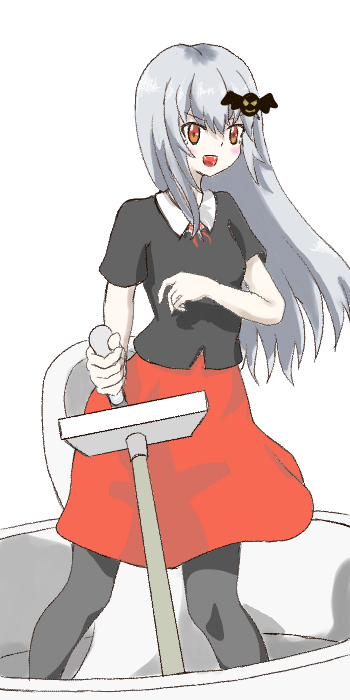
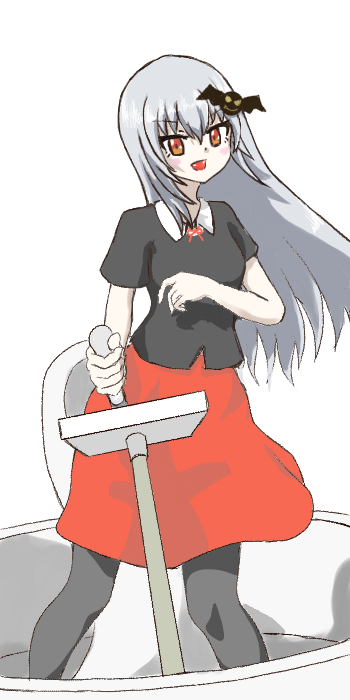
ボムのシステムとレーザによるスコアの加算
一通りできました
疲れた

diff --git a/TypeManager.cpp b/TypeManager.cpp
@@ -52,11 +52,13 @@ bool gameover = false;
 
 double itagaruLimit = 1.5;
 
-int32 LostScore = 10000;
+int32 LostScore = 250000;
 
 double TimeOfBomb = 6;
 
 bool ColTim = false;
+
+int32 BombGage = 500000;
 
 BaseType* TypeManager::m_pType = NULL;
 
@@ -85,6 +87,8 @@ double TypeManager::TimMotionTime = 0.6;
 ChackDuaChange TypeManager::ChackHitMan = { DuaInit,DuaInit };
 
 double TypeManager::itagaruTimer = 0;
+
+int32 TypeManager::ShowBombGage = 0;
 
 TypeManager::TypeManager(int32 ScoreInit)
 {
@@ -198,7 +202,7 @@ void TypeManager::Update()
 
 	if (KeyX.down() && not player_m->GetBreak())
 	{
-		if (player_m->GetBombNum() > 0 && not Explo)
+		if (player_m->GetBombNum() > 0 && not Explo && player_m->GetHaveBomb())
 		{
 			Explo = true;
 		}
@@ -215,6 +219,7 @@ void TypeManager::Update()
 
 	insP->Pacmove();
 	insP->reflect(ew);
+
 	if (Explo) {
 		if (insP->intersectsTim(enemy_m))
 			ColTim = true;
@@ -231,6 +236,7 @@ void TypeManager::Update()
 			Timerinterval = 0;
 			ExploTimer = 0;
 			Explo = false;
+			player_m->SetHaveBomb(false);
 			if (Abs(insP->GetPacVelocity().y) < 50)
 			{
 				if (insP->GetPacVelocity().y > 0)
@@ -253,6 +259,8 @@ void TypeManager::Update()
 	bat->BallMoveMax(500);
 	bat->RemoveOutBall(table);
 
+	ShowBombGage=player_m->AccumulateBomb(m_pType->Getm_score());
+
 	m_pType->Update(insP, player_m, enemy_m);
 
 
@@ -274,6 +282,7 @@ void TypeManager::Update()
 			//敵のゴール
 			player_m->LostLifes();
 			player_m->Repaired();
+			player_m->SetHaveBomb(true);
 			Vec2 a{ WindowWide / 2,WindowHight / 2 }, b{ 0,100 };
 			insP->SetXY(a);
 			insP->SetVelocity(b);
@@ -394,7 +403,7 @@ void TypeManager::Draw(Array<Texture> characters)
 	}
 
 	//エイリアンちゃん描写
-	characters[int32(CharactersState::TsAlien)].draw(WindowWide - tableLeft, tableUpper-35);
+	characters[int32(CharactersState::TsAlien)].draw(WindowWide - tableLeft, tableUpper-50);//35
 
 	//アンナちゃん描写
 	if (ChackHitMan.nowDuability < ChackHitMan.preDuability||itagaruTimer>0)
@@ -420,6 +429,11 @@ void TypeManager::Draw(Array<Texture> characters)
 	}
 	else
 		characters[int32(CharactersState::TsAnnna)].draw(0, 75);
+
+	characters[int32(CharactersState::BombGage)].scaled(1.7).drawAt(WindowWide - tableLeft*3/8-40, WindowHight - tableUpper - 100);
+
+	if (not player_m->GetHaveBomb())
+		Circle{ WindowWide - tableLeft * 3 / 8 - 40, WindowHight - tableUpper - 100 ,27.5 }.drawPie(0_deg, Math::Pi * 2 * (BombGage-ShowBombGage) / BombGage, ColorF(Palette::Black, 0.4));
 	
 	ChackHitMan.preDuability = ChackHitMan.nowDuability;
 	ChackHitMan.nowDuability = player_m->GetDua();

diff --git a/Main.cpp b/Main.cpp
@@ -38,7 +38,7 @@ void SetTextureCharacters()
 	//横の絵
 	const Texture textureTsAnnna{ U"Images/TableSideAnnna.png" };
 	const Texture textureAttackedTsAnnna{ U"Images/AttackedTableSideAnnna.png" };
-	const Texture textureTsAlien{ U"Images/TableSideAlien.png" };
+	const Texture textureTsAlien{ U"Images/TableSideAlien2.png" };
 	//マレットドット絵
 	const Texture textureAnnnaOnMallet{ U"Images/AnnnaOnMallet.png" };
 	const Texture textureAlienOnMallet{ U"Images/AlienOnMallet.png" };
@@ -47,6 +47,8 @@ void SetTextureCharacters()
 	const Texture textureTim2{ U"Images/Tim2.png" };
 	const Texture textureTim3{ U"Images/Tim3.png" };
 	const Texture textureTim4{ U"Images/Tim4.png" };
+	//ボムゲージ
+	const Texture textureBombGage{ U"Images/BombMark.png" };
 
 	Characters << textureAnnnaOnMallet;
 	Characters << textureAlienOnMallet;
@@ -59,6 +61,8 @@ void SetTextureCharacters()
 	Characters << textureTim2;
 	Characters << textureTim3;
 	Characters << textureTim4;
+
+	Characters << textureBombGage;
 }
 
 class Title : public App::Scene
@@ -115,6 +119,7 @@ private:
 	Font font{ 60 };
 	Font Scorefont1{ 30 };
 	Font Scorefont2{ 22 };
+	Font Sp{ 37 };
 	bool oneTime = true;
 
 	const Texture textureGameBack{ U"Images/game_Back.png" };
@@ -208,6 +213,7 @@ public:
 			}
 			Scorefont1(U"スコア").draw(WindowWide - tableLeft + 10, WindowHight - 40, ColorF(Palette::Yellow));
 			Scorefont2(t_manager->GetNowScore()).draw(WindowWide - tableLeft + 110, WindowHight - 32, ColorF(Palette::White));
+			Sp(U"必殺技").draw(WindowWide - tableLeft + 10, WindowHight - tableUpper - 100-27);
 		}
 	}
 };

diff --git a/EneBullet_1.cpp b/EneBullet_1.cpp
@@ -154,12 +154,12 @@ void EneBullet_1::RandomShotball(Ball_1* ball, double MinSpeed, double MaxSpeed,
 	}
 }
 
-void EneBullet_1::ShotRay(Ball_1* ball ,int32 hutosa, Color c,Pac *p)
+void EneBullet_1::ShotRay(Ball_1* ball ,int32 hutosa, Color c,Pac *p,int32 *score)
 {
 	for (auto& bullet : enebullets)
 	{
 		ball->ShotRay(bullet.pos, bullet.dir, hutosa, c);
-		ball->IntersectsPac(p, bullet.pos);
+		ball->IntersectsPac(p, bullet.pos, score);
 	}
 }
 
@@ -188,14 +188,14 @@ void EneBullet_1::HunsuiShot(Ball_1* ball, double maxs, double mins, double ct, 
 	ball->BallFall();
 }
 
-void EneBullet_1::NeutronStarRay(Ball_1* ball, int32 hutosa, Color c, Pac* p)
+void EneBullet_1::NeutronStarRay(Ball_1* ball, int32 hutosa, Color c, Pac* p, int32* score)
 {
 	ball->RayAllExtingish();
 	for (auto& bullet : enebullets)
 	{
 		ball->ShotRay(bullet.pos, bullet.dir, hutosa, c);
 		ball->ShotRay(bullet.pos, bullet.dir+3.14, hutosa, c);
-		Array<bool> i = ball->IntersectsPac(p, bullet.pos);
+		Array<bool> i = ball->IntersectsPac(p, bullet.pos, score);
 		if (i[0]||i[1])
 		{
 			p->RayPacmove(bullet.pos, bullet.dir);

diff --git a/Type5.cpp b/Type5.cpp
@@ -219,7 +219,10 @@ void Type5::Update(Pac* pac, Player* player, Enemy* enemy)
 		}
 		else
 		{
-			NeutronStar->NeutronStarRay(ball7, hutosa, Palette::Skyblue, pac);
+			int32 S = Getm_score();//一時的にスコアをもらう
+			NeutronStar->NeutronStarRay(ball7, hutosa, Palette::Skyblue, pac,&S);
+			Setm_score(S);
+
 			uzu->uzukaiten(ball6, 3.14 / 17, 1.7, 110, Vec2(tableLeft + tableWide / 2, tableUpper + tableHight * 2 / 5), 12, &BaseDir);
 			if (enemy->GetDua() < DuaInit * 4 / 5) {
 				TypeChange = true; type++;
@@ -242,7 +245,10 @@ void Type5::Update(Pac* pac, Player* player, Enemy* enemy)
 		}
 		else
 		{
-			NeutronStar->NeutronStarRay(ball7, hutosa, Palette::Skyblue, pac);
+			int32 S = Getm_score();//一時的にスコアをもらう
+			NeutronStar->NeutronStarRay(ball7, hutosa, Palette::Skyblue, pac, &S);
+			Setm_score(S);
+
 			uzu->uzukaiten(ball6, 3.14 / 10, 0.9, 140, Vec2(tableLeft + tableWide / 2, tableUpper + tableHight * 2 / 5), 12, &BaseDir);
 			if (enemy->GetDua() < DuaInit * 3 / 5) {
 				TypeChange = true; type++;

diff --git a/EneBullet_1.h b/EneBullet_1.h
@@ -41,13 +41,13 @@ public:
 
 	void RandomShotball(Ball_1* ball, double MinSpeed, double MaxSpeed, Array<double> dir, double baratsuki, double MinD, double MaxD);//type4のrainshotで主に使う
 
-	void ShotRay(Ball_1* ball, int32 hutosa, Color c, Pac* pac);
+	void ShotRay(Ball_1* ball, int32 hutosa, Color c, Pac* pac, int32* score);
 
 	void ShotRay(Ball_1* ball, int32 hutosa, Color c, double len);
 
 	void HunsuiShot(Ball_1* ball, double MaxSpeed, double MinSpeed,double ct, double zurasu, double grab);//噴水
 
-	void NeutronStarRay(Ball_1* ball, int32 hutosa, Color c, Pac* pac);//中性子星のガンマ線バースト、パックが光線に当たった時の処理も書いてる
+	void NeutronStarRay(Ball_1* ball, int32 hutosa, Color c, Pac* pac,int32 *score);//中性子星のガンマ線バースト、パックが光線に当たった時の処理も書いてる
 
     Array<Vec2> SetBulSurr(Vec2 center,double BaseDir, int32 k);//centerを中心にステージをk等分し、centerをとりかこむようにbulletを設置
 

diff --git a/Player.cpp b/Player.cpp
@@ -6,10 +6,34 @@ Player::Player(double x, double y, double em, double m_r, double h_s, double r_s
 	:Mallet(x, y, em, m_r, h_s, r_s, m_s, tableleft, tableupper, windowwide, windowhight, g_r,life), delta(0), duability(DuaInit)
 {
 	Revivaled = false;
+	HaveBomb = true;
+	PiggyBomb = 0;
+	CountBombExplo = 0;
 }
 Player::~Player()
 {
 
+}
+
+int32 Player::AccumulateBomb(int32 nowscore)
+{
+	if (not HaveBomb)//もしボムがなければ
+	{
+		if (nowscore - PiggyBomb > BombGage)
+		{
+			HaveBomb = true;
+		}
+		else if (nowscore < PiggyBomb)
+		{
+			PiggyBomb = nowscore;
+			return 0;
+		}	
+	}
+	else
+	{
+		PiggyBomb = nowscore;
+	}
+	return nowscore - PiggyBomb;
 }
 
 void Player::keymove(bool enemyBreak)
@@ -138,10 +162,17 @@ void Player::BreakMallet(int32* score)
 {
 	if (!Break)
 	{
+		
 		*score -= LostScore;
+		if (*score < 0)
+		{
+			*score = 0;
+		}
+
 		Break = true;
 		duability = 0;
 		SetXY(-1000, -1000);
+
 	}
 	RepairMallet();
 }

diff --git a/EneBall.h b/EneBall.h
@@ -34,7 +34,7 @@ public:
 	void IntersectsPac(Pac* pac, int32* score);			//パックと衝突したとき、スコアの加算も兼ねる
 	void IntersectsBat(Pac* pac,double iryoku);//コウモリとパックの衝突　スコアが加算されない　パックを押し返す
 	void IntersectsPac(Pac* pac,double iryoku, int32* score);//雨とパックの衝突
-	Array<bool> IntersectsPac(Pac* pac, Vec2 start);//レーザーとパックの衝突、startはレーザーの起点
+	Array<bool> IntersectsPac(Pac* pac, Vec2 start,int32 *score);//レーザーとパックの衝突、startはレーザーの起点
 	void IntersectsHunsui(Pac* pac, double iryoku);//レーザーとの衝突、上方向に加速iryokuは噴水の押し返す力
 	void IntersectsifUe(Pac* pac, double iryoku);//パックが上に進んでいれば速度.yを加速
 	void IntersectsJun(Pac* pac, double iryoku);//パックの順方向に加速

diff --git a/Player.h b/Player.h
@@ -12,11 +12,19 @@ private:
 	double duability;
 	int32 BombNum=1;
 	//Ball_1 Bat;
-
+	bool HaveBomb;//ボムがあるかないか
+	int32 PiggyBomb;//ボムを使った時のスコアを保持
+	int32 CountBombExplo;//ボムを使った回数をカウント
 public:
 	Player(double x, double y, double em, double m_r, double h_s, double r_s, double m_s, double tableleft, double tableupper,
 		double windowwide, double windowhight, double g_r,Array<Vec2> life);
 	~Player();
+
+	int32 AccumulateBomb(int32 nowscore);//bombを吐いてから,たまったスコアの量を返す。
+
+	bool GetHaveBomb() { return HaveBomb; };
+
+	void SetHaveBomb(bool ft) { HaveBomb = ft; };
 
 	void keymove(bool enemyBrak);
 

diff --git a/EneBall.cpp b/EneBall.cpp
@@ -100,13 +100,14 @@ void EneBall::IntersectsPac(Pac* p,double iryoku, int32* score)
 	}
 }
 
-Array<bool> EneBall::IntersectsPac(Pac* pac, Vec2 start)
+Array<bool> EneBall::IntersectsPac(Pac* pac, Vec2 start,int32 *score)
 {
 	Array<bool> intersects;
 	for (auto it = Ray.begin(); it != Ray.end();)
 	{
 		if (const auto points = it->line.intersectsAt(pac->GetPac()))
 		{
+			*score += 7000 * Scene::DeltaTime();
 			double dis = it->line.length();
 			Vec2 p;
 			for (const auto& point : *points)

diff --git a/TypeManager.h b/TypeManager.h
@@ -23,6 +23,7 @@ enum class CharactersState
 	Tim2,
 	Tim3,
 	Tim4,
+	BombGage,
 };
 
 static struct ChackDuaChange
@@ -55,6 +56,8 @@ private:
 	static double BombBibTimer;//ボムによって揺れるじかん
 	static double TimMotionTimer;//ティム君の動きのハンドルに使うタイマー
 	static double TimMotionTime;//ティム君の一連の動きに要する時間
+
+	static int32 ShowBombGage;
 
 public:
 	enum TYPE {

diff --git a/data.h b/data.h
@@ -62,3 +62,5 @@ extern int32 LostScore;//プレイヤーが死んだときに失うスコア
 extern double TimeOfBomb;//必殺技の時間
 
 extern bool ColTim;//ティム君が衝突したかどうか。メイン関数内で画面を揺らすかどうか。
+
+extern int32 BombGage;//ボムを吐いてから次のボムが復活するまでに必要なスコア

diff --git a/Enemy.cpp b/Enemy.cpp
@@ -100,6 +100,7 @@ void Enemy::SetDua(int32 d)
 
 void Enemy::BreakMallet()
 {
+
 	SetXY(-1000, -1000);
 	duability = 0;
 	Break = true;
@@ -107,6 +108,7 @@ void Enemy::BreakMallet()
 
 void Enemy::RepairMallet()
 {
+
 	duability = DuaInit;
 	Break = false;
 }
